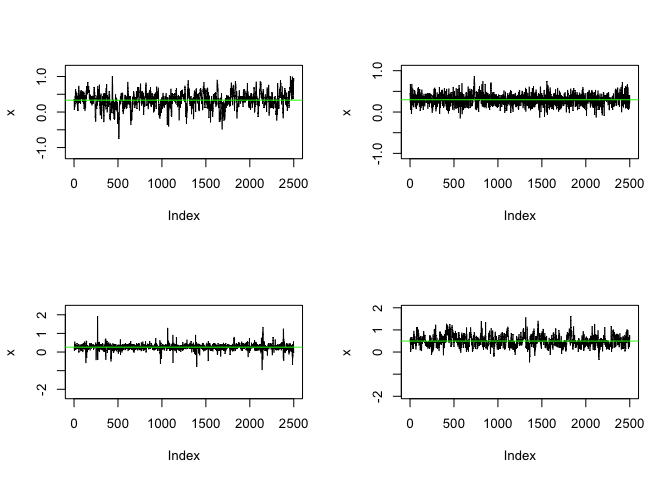
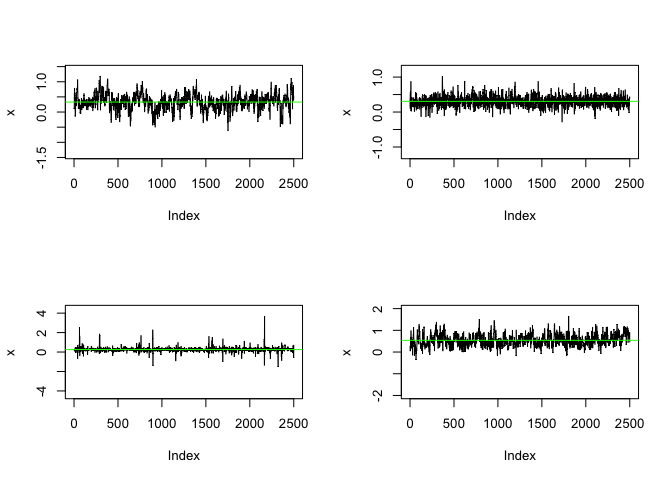
Spam update

diff --git a/README.md b/README.md
@@ -24,6 +24,10 @@ imaging (MSI) datasets. It is easily applicable to broader spatial
 datasets, to study spatially varying interaction between any two
 variables, based on a spatial fused horseshoe prior.
 
+\*\*August 7, 2025 update: a modification to the package has improved
+computational complexity by several folds. Users are requested to
+re-install the package.
+
 ## Install and load SpaceBF
 
 We install and load the developmental version of SpaceBF from GitHub. We
@@ -42,7 +46,9 @@ suppressWarnings(BiocManager::install("ComplexHeatmap"))
 
 # SpaceBF installation
 devtools::install_github('sealx017/SpaceBF', quiet = TRUE)
-suppressWarnings(library(SpaceBF))
+library(SpaceBF)
+# Warning: replacing previous import 'circlize::degree' by 'igraph::degree' when
+# loading 'SpaceBF'
 
 
 # # List of packages providing functional help
@@ -152,11 +158,11 @@ MM <- SpaceBF(y1, y2, X = NULL, G = mst.adjmat, which.model = "NB", nIter = 5000
 
 print(str(MM)) # check the returned list object
 # List of 5
-#  $ Beta    : num [1:2500, 1:586] -1.149 -1.299 -1.319 -0.945 -1.203 ...
-#  $ R       : num [1:2500, 1] 7.31 6.83 6.81 6.49 6.25 ...
-#  $ Lambda  : num [1:2500, 1:584] 0.276 1.897 0.808 0.291 1.545 ...
-#  $ Tau     : num [1:2500, 1:2] 0.001378 0.001336 0.001207 0.000999 0.000851 ...
-#  $ Deviance: num [1:2500, 1] 1193 1206 1203 1214 1201 ...
+#  $ Beta    : num [1:2500, 1:586] -0.601 -1.11 -1.217 -1.362 -1.524 ...
+#  $ R       : num [1:2500, 1] 6.26 6.4 6.41 6.72 6.72 ...
+#  $ Lambda  : num [1:2500, 1:584] 0.001167 0.000657 0.001914 0.003592 0.001043 ...
+#  $ Tau     : num [1:2500, 1:2] 0.000292 0.000323 0.000332 0.000334 0.000355 ...
+#  $ Deviance: num [1:2500, 1] 1240 1225 1211 1213 1213 ...
 # NULL
 ```
 
@@ -194,17 +200,17 @@ similar format.
 G_results <- global_res(MM$Beta[, -c(1:N)], summary = "median", local.p.ths = 0.9)
 print(G_results)  # test should be significant if nu is highly +ve or -ve
 #      global.beta  global.pval num.nonzero.local Geweke.global.beta
-# var1   0.3002537 3.142593e-06               225          0.5678453
+# var1   0.2969976 0.0007659962               197            2.13144
 
 
 L_results <- local_res(MM$Beta[, -c(1:N)],  local.p.ths = 0.9)
 print(L_results[1:5, ]) # printing the estimates and p-values for the first 5 locations
 #   local.beta local.pval Geweke.local.beta
-# 1  0.2559117 0.13036105         0.5063517
-# 2  0.2581474 0.12229773         0.4169809
-# 3  0.2548976 0.11283988         0.3224292
-# 4  0.2531049 0.12772233         0.1603023
-# 5  0.2613820 0.07781562         1.0724293
+# 1  0.2297110  0.2124571        0.88811059
+# 2  0.2266684  0.2023411        1.20741449
+# 3  0.2251612  0.1909162        1.35650487
+# 4  0.2250873  0.2408612        1.55704044
+# 5  0.2403067  0.1153344        0.06546068
 ```
 
 ## Visualize the estimated slope surface along with the expression profiles
@@ -279,6 +285,3 @@ bioRxiv, 2025-03.
 (2018). Spatially resolved transcriptomics enables dissection of genetic
 heterogeneity in stage III cutaneous malignant melanoma. Cancer
 research, 78(20):5970–5979.
-
-This project is licensed under the GPL-3.0 License - see the `LICENSE-GPL3` file for details. The `data` directory contains data files licensed under the CC0 waiver- see `LICENSE-CC0` for details.
-
